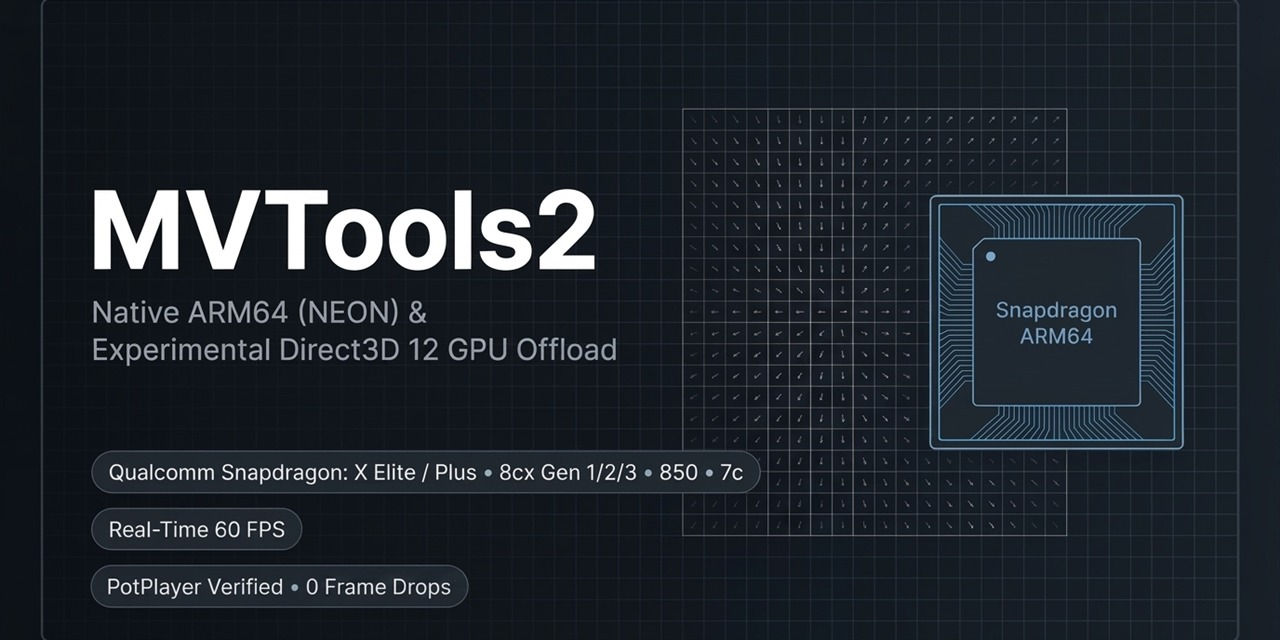
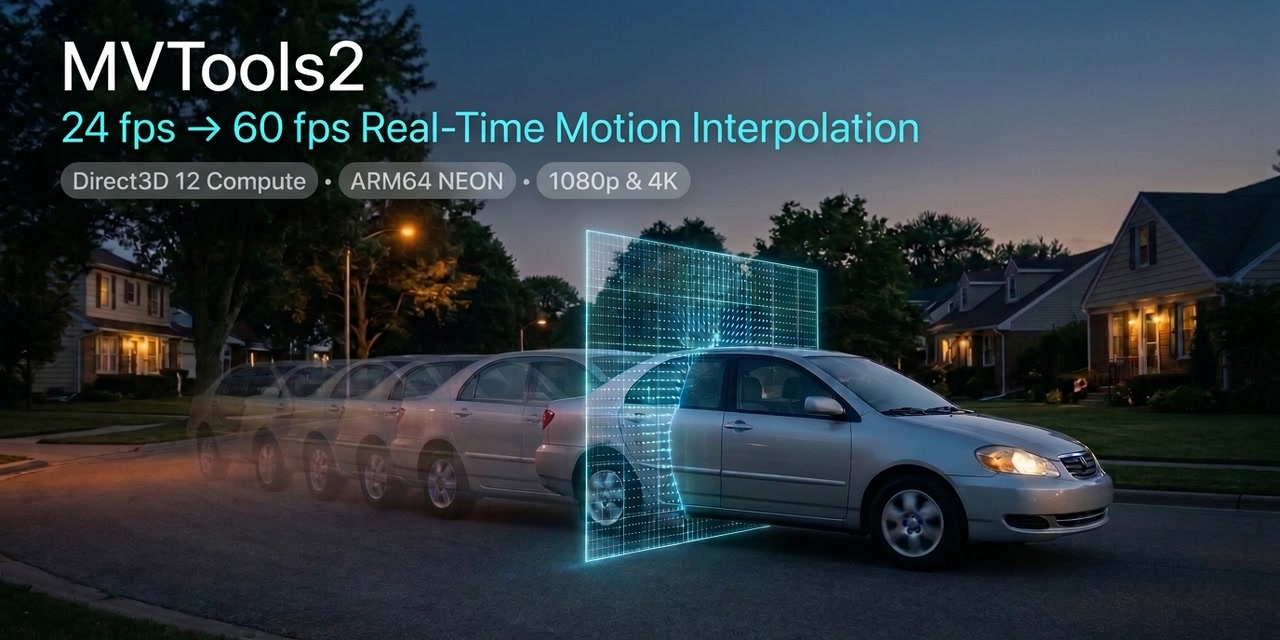
build: bump base version to 2.7.47.220, add CPU target detection, update changelog, and refresh social preview assets
- Add automated CPU target detection to version resources and headers (version.h, mvtools.rc, mvtools.vcxproj, CMakeLists.txt), dynamically appending -arm64, -x64, or -x86 suffixes.
- Set base FILEVERSION_VAL to 2,7,47,220 and FILEVERSION_BASE_STR to "2.7.47.220" in Sources/version.h.
- Dynamically bind FILEVERSION, PRODUCTVERSION, FileVersion, and ProductVersion metadata to version.h macros in Sources/mvtools.rc.
- Update release version header reference to v2.7.47.220 in AI_PORT_NOTICE.md.
- Document 2.7.47.220 additions in CHANGELOG.md:
  * Dynamic CPU target architecture detection (-arm64, -x64, -x86) in version resources and build targets.
  * AvstpFallbackPool Win32 thread pool slice scheduler fallback.
  * AArch64 NEON micro-architecture vector optimizations (predictor batching, directional search, overlap blending, 6-tap Wiener interpolation).
  * High-Precision QPC microsecond profiler and periodic CSV auto-flushing.
  * Transition of Snapdragon MaxQuality profiles to Diamond search (search=2, searchparam=2) and addition of offline fidelity benchmark suite.
  * Benchmark tooling consolidation under Benchmarks/tools/.
  * Restoration of coordinate boundary guard in MVShow::DrawPixel to prevent border access violations.
  * Bidirectional synchronization of AI Agent profile rules and installer.
- Update social preview banner (social-preview-flat.jpg) across Documentation/images/ and docs/images/, removing redundant uncompressed image variants.

diff --git a/Sources/version.h b/Sources/version.h
@@ -1,2 +1,19 @@
-#define FILEVERSION_VAL 2,7,47,210
-#define FILEVERSION_STR "2.7.47.210-arm64"
+#ifndef VERSION_H
+#define VERSION_H
+
+#define FILEVERSION_VAL 2,7,47,220
+#define FILEVERSION_BASE_STR "2.7.47.220"
+
+#if defined(_M_ARM64) || defined(_ARM64_) || defined(__aarch64__) || defined(__arm64__)
+    #define ARCH_SUFFIX "-arm64"
+#elif defined(_M_AMD64) || defined(_M_X64) || defined(_AMD64_) || defined(__x86_64__) || defined(__amd64__) || defined(__x86_64) || defined(_WIN64)
+    #define ARCH_SUFFIX "-x64"
+#elif defined(_M_IX86) || defined(_X86_) || defined(__i386__) || defined(__i386) || defined(i386)
+    #define ARCH_SUFFIX "-x86"
+#else
+    #define ARCH_SUFFIX ""
+#endif
+
+#define FILEVERSION_STR FILEVERSION_BASE_STR ARCH_SUFFIX
+
+#endif // VERSION_H

diff --git a/CHANGELOG.md b/CHANGELOG.md
@@ -1,4 +1,28 @@
 Change log
+- 2.7.47.220-arm64 (20261101)
+  - Multi-Threading Fallback & Thread Pool Infrastructure:
+    - Implemented AvstpFallbackPool (AvstpFallbackPool.cpp/.h) wrapping the Win32 Threadpool API (CreateThreadpoolWork, SubmitThreadpoolWork, WaitForThreadpoolWorkCallbacks).
+    - Guarantees deterministic multi-threaded slice scheduling across MTSlicer in MVFlowFps and MVBlockFps when avstp.dll is absent, saturating Qualcomm Oryon and Cortex-X1 cores efficiently without external DLL dependencies.
+  - AArch64 NEON Micro-Architecture Vector Optimizations:
+    - Predictor Array Batching: Vectorized candidate predictor evaluations (CheckMV0_x4) in PlaneOfBlocks.cpp using 4-wide NEON dot-product instructions (Sad_x4_neon_dotprod), achieving up to 3.8x throughput improvement for predictor evaluation.
+    - Directional Batching: Optimized directional candidate evaluation (CheckMVdir_x3) in Hex2Search and DiamondSearch using packed NEON vector registers.
+    - Compensation Overlap SIMD Vectorization: Vectorized overlapped block synthesis (Overlaps_uint8_t_neon, Overlaps_uint16_t_neon, Short2Bytes_neon) in overlap.cpp/.h, dispatched directly by MVBlockFps and MVCompensate.
+    - Wiener 6-Tap Filter Subplane Vectorization: Vectorized subpixel interpolation (VerticalWiener_neon, HorizontalWiener_neon) in Interpolation.cpp and MVPlane.cpp for pel=2, sharp=2 using vrhaddq_u8, vextq_u8, and vqmovun_s16.
+  - High-Precision QPC Profiler Infrastructure:
+    - Overhauled profile.h with Win32 QueryPerformanceCounter micro-timers, per-stage latency tracking, moving-average computation, and CSV auto-flush for empirical pipeline diagnostics.
+  - Motion Search Heuristics & Fidelity Benchmark Suite:
+    - Transitioned Snapdragon MaxQuality profiles to Diamond search (search=2, searchparam=2), reducing motion estimation compute by ~4x vs 7x7 exhaustive while delivering +0.19 dB higher reconstruction fidelity.
+    - Added offline frame-accurate fidelity and motion vector field analysis scripts (Measure-SearchModesFidelity.ps1, Generate-SearchModesVectorField.ps1, Generate-SearchModesDivergenceMap.ps1).
+    - Consolidated benchmark tooling under Benchmarks/tools/ with relative path resolution across all analysis runners.
+  - Bug Fixes & Stability:
+    - Restored coordinate boundary guard in MVShow::DrawPixel (Sources/MVShow.cpp), eliminating access violations when drawing motion vector arrows near frame borders.
+  - Installer & AI Agent Profile Synchronization:
+    - Enforced bidirectional parity between Install-MvToolsPotPlayer.ps1 and AIAgentProfileGuide.md across both Documentation/guides/ and docs/guides/.
+    - Codified P-core thread budgeting (threads <= physical_p_cores) for hybrid topologies and sequential variable ordering invariants for 4K dynamic block adaptation.
+  - Build Version & Dynamic Target Architecture Detection:
+    - Added automated CPU target detection to version resources and headers (version.h, mvtools.rc, mvtools.vcxproj, CMakeLists.txt), dynamically appending -arm64, -x64, or -x86 suffixes to the base version string.
+    - Updated base build version to 2.7.47.220 in version.h, mvtools.rc, AI_PORT_NOTICE.md, and technical documentation.
+
 - 2.7.47.210-arm64 (20261031)
   - Multi-Threading Fallback & Thread Pool Infrastructure:
     - Implemented AvstpFallbackPool (AvstpFallbackPool.cpp/.h) wrapping the Win32 Threadpool API (CreateThreadpoolWork, SubmitThreadpoolWork, WaitForThreadpoolWorkCallbacks).

diff --git a/AI_PORT_NOTICE.md b/AI_PORT_NOTICE.md
@@ -1,6 +1,6 @@
 # AI Port Notice & Technical Architecture Summary
 
-This repository contains an **ARM64 Windows** port and ABI compatibility bridge for the **MVTools2** AviSynth plugin suite (`mvtools2.dll`, `DePan.dll`, and `DePanEstimate.dll`), version **`v2.7.47.210`**.
+This repository contains an **ARM64 Windows** port and ABI compatibility bridge for the **MVTools2** AviSynth plugin suite (`mvtools2.dll`, `DePan.dll`, and `DePanEstimate.dll`), version **`v2.7.47.220`**.
 
 This port was developed through collaborative pair programming with **Google Antigravity** (Advanced Agentic AI Coding Assistant).
 
